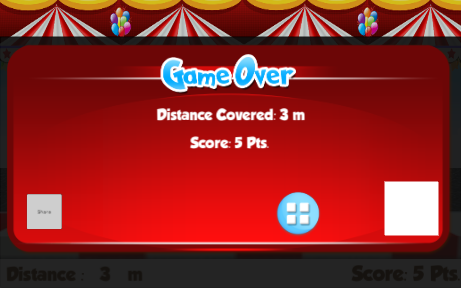
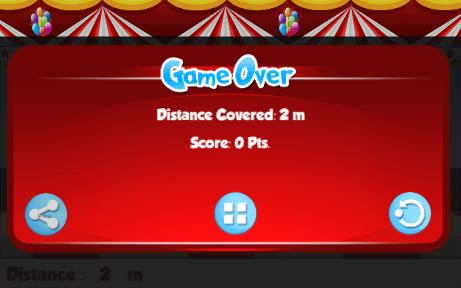
added achievements string..

diff --git a/Assets/Scripts/Combo/ComboManager.cs b/Assets/Scripts/Combo/ComboManager.cs
@@ -56,6 +56,7 @@ public class ComboManager : MonoBehaviour
         EventMgr.GameRestart += OnReset;
         EventMgr.GamePause += OnGamePause;
         EventMgr.GameResume += OnGameResume;
+		//GooglePlayServiceManager.instance.UnlockAchievement("Initial Run");
     }
 
     public void OnDisable()
@@ -76,11 +77,11 @@ public class ComboManager : MonoBehaviour
         //}
         if (gameRunning)
         {
-            distance += Time.deltaTime;
-            if (distance - prevTime > 1f) // Memory Leak Fix
+			GlobalVariables.distanceCovered += (long)Time.deltaTime;
+			if (GlobalVariables.distanceCovered - prevTime > 1f) // Memory Leak Fix
             {
-                instructText.text = ((int) distance).ToString();
-                prevTime = distance;
+				instructText.text = ((int) GlobalVariables.distanceCovered).ToString();
+				prevTime = GlobalVariables.distanceCovered;
             }
         }
 #if UNITY_EDITOR
@@ -129,7 +130,7 @@ public class ComboManager : MonoBehaviour
     {
         gameRunning = false;
         gameOverPanel.SetActive(true);
-        gameOverText.text = "Distance Covered: " + (int)distance +" m\n\n"+"Score: " + ScoreSystem.instRef.GetScore()+" Pts.";
+		gameOverText.text = "Distance Covered: " + (int)GlobalVariables.distanceCovered +" m\n\n"+"Score: " + GlobalVariables.score+" Pts.";
     }
 
     // Game Reset
@@ -142,11 +143,11 @@ public class ComboManager : MonoBehaviour
         listenForStart = true;
         Pooler.InstRef.HideAll();        
         
-        distance = 0;
+		GlobalVariables.distanceCovered = 0;
         instructText.text ="0";
         ScoreSystem.score = 0;
         ScoreSystem.comboCount = 0;
-        ScoreDisp.text = "Score: " + ScoreSystem.score + " Points.";
+		ScoreDisp.text = "Score: " + GlobalVariables.score + " Points.";
         ComboDisp.text = "";
 
 

diff --git a/Assets/Scripts/GooglePlayServiceManager.cs b/Assets/Scripts/GooglePlayServiceManager.cs
@@ -1,14 +1,20 @@
 using UnityEngine;
 using Prime31;
 using System.Collections;
+using System.Collections.Generic;
+
+[System.Serializable]
+public class AchievementNameID
+{
+	public string achievementName;
+	public string achievementID;
+}
 
 public class GooglePlayServiceManager : MonoBehaviour 
 {
 	public static GooglePlayServiceManager instance;
 
-
-	public string[] achievemnents;
-
+	public List<AchievementNameID> achievementNameID;
 
 
 	void Awake()
@@ -19,20 +25,30 @@ public class GooglePlayServiceManager : MonoBehaviour
 	// Use this for initialization
 	void Start ()
 	{
-		//InitCall();	 
+		Debug.Log("init called in google play service manager...");
+		//PlayGameServices.init("46818076463",false);
+		InitCall();	 
 	}
 
 	public void InitCall()
 	{
-		if(!PlayGameServices.isSignedIn())
+		
+		//if(!PlayGameServices.isSignedIn())
 		PlayGameServices.authenticate();
 	}
 
 
+	public void PostScoreToLeaderBoard()
+	{
+		Debug.Log("Posting score");
+		PlayGameServices.submitScore("CgkIr87MtK4BEAIQAA",GlobalVariables.distanceCovered);
+	}
 	public void ShowLeaderBoard()
 	{
 		Debug.Log("Showing Leaderboard");
+		PlayGameServices.reloadAchievementAndLeaderboardData();
 		PlayGameServices.showLeaderboard("CgkIr87MtK4BEAIQAA");
+
 	}
 
 	public void ShowAchievements()
@@ -43,7 +59,17 @@ public class GooglePlayServiceManager : MonoBehaviour
 
 	public void UnlockAchievement(string achievementName)
 	{
-		PlayGameServices.unlockAchievement(achievementName,true);
+
+		for(int i =0;i<achievementNameID.Count;i++)
+		{
+			if(achievementNameID[i].achievementName == achievementName)
+			{
+				PlayGameServices.unlockAchievement(achievementNameID[i].achievementID,true);
+			}
+		}
+
+
+
 	}
 
 	// Update is called once per frame

diff --git a/Assets/Scripts/Combo/ScoreSystem.cs b/Assets/Scripts/Combo/ScoreSystem.cs
@@ -30,7 +30,7 @@ public class ScoreSystem : MonoBehaviour
     // Increase score
     void UpdateScore()
     {
-        score += scoreIncrement * comboCount;
+		GlobalVariables.score += scoreIncrement * comboCount;
         UpdateScoreUI();
     }
 
@@ -59,12 +59,10 @@ public class ScoreSystem : MonoBehaviour
     // update Score Display
     void UpdateScoreUI()
     {
-        scoreDisp.text="Score: "+score+" Pts.";
+		scoreDisp.text="Score: "+GlobalVariables.score+" Pts.";
+		GooglePlayServiceManager.instance.PostScoreToLeaderBoard();
     }
 
-    public int GetScore()
-    {
-        return score;
-    }
+    
 
 }

diff --git a/Assets/Scripts/UnityADManager.cs b/Assets/Scripts/UnityADManager.cs
@@ -38,10 +38,10 @@ public class UnityADManager : MonoBehaviour {
 
 	public void ShowRewardedAd()
 	{
-		if (Advertisement.IsReady("rewardedVideoZone"))
+		if (Advertisement.IsReady("rewardedVideo"))
 		{
 			var options = new ShowOptions { resultCallback = HandleShowResult };
-			Advertisement.Show("rewardedVideoZone", options);
+			Advertisement.Show("rewardedVideo", options);
 		}
 	}
 

diff --git a/Assets/Scripts/Combo/DogRunner.cs b/Assets/Scripts/Combo/DogRunner.cs
@@ -97,7 +97,7 @@ public class DogRunner : MonoBehaviour
 
             dogVelocity = 1;
             SyncAnim();
-            if(Life==5 || ComboManager.distance>150f)
+			if(Life==5 || GlobalVariables.distanceCovered>150f)
             {
                 BtnVideo.SetActive(true);
             }

diff --git a/Assets/Scripts/GlobalVariables.cs b/Assets/Scripts/GlobalVariables.cs
@@ -5,4 +5,7 @@ public class GlobalVariables : MonoBehaviour
 {
 
 	public static int numberOfRetry;
+	public static long distanceCovered;
+	public static long score;
+
 }
